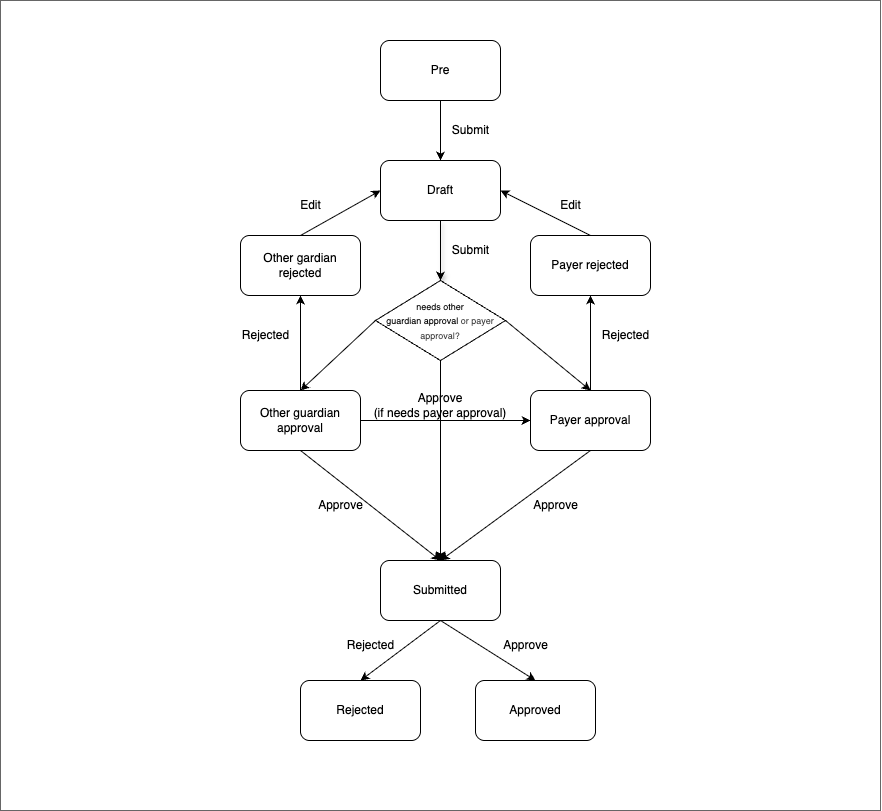
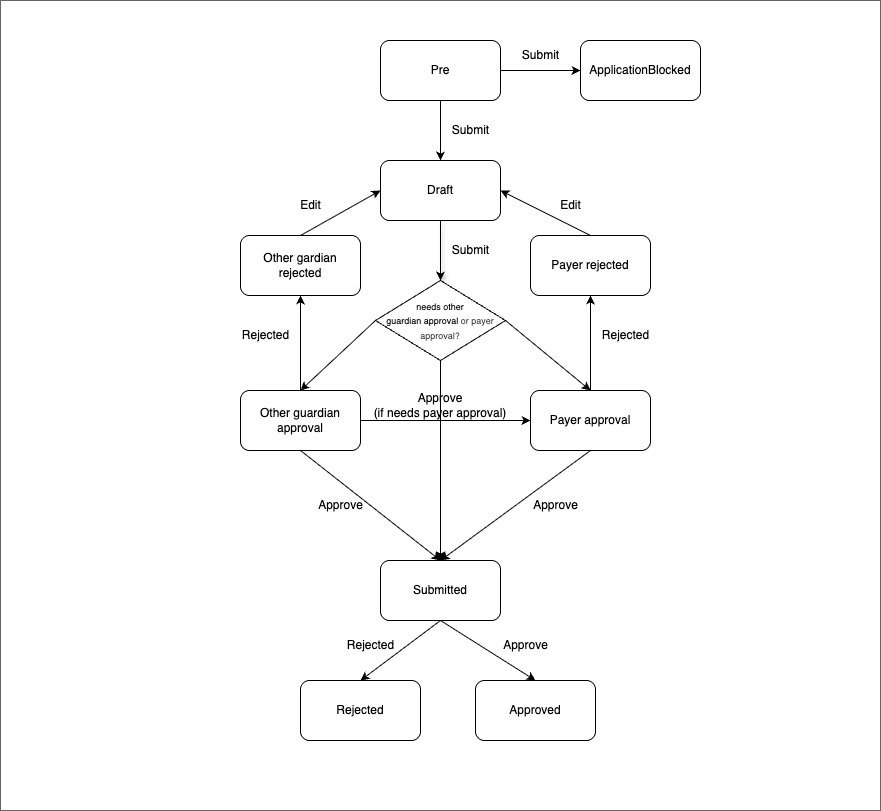
feat(new-primary-school): Add new APPLICATION_BLOCKED state (#21794)
* [TS-1173] Add new APPLICATION_BLOCKED state

* Fix after coderabbit review

diff --git a/libs/application/templates/new-primary-school/src/lib/NewPrimarySchoolTemplate.ts b/libs/application/templates/new-primary-school/src/lib/NewPrimarySchoolTemplate.ts
@@ -48,6 +48,7 @@ import {
 import {
   determineNameFromApplicationAnswers,
   getApplicationAnswers,
+  getApplicationExternalData,
   getApplicationType,
   getOtherGuardian,
   otherGuardianApprovalStatePendingAction,
@@ -108,6 +109,11 @@ const NewPrimarySchoolTemplate: ApplicationTemplate<
               externalDataId: 'preferredSchool',
               throwOnError: true,
             }),
+            defineTemplateApi({
+              action: ApiModuleActions.getIsApplicationBlocked,
+              externalDataId: 'isApplicationBlocked',
+              throwOnError: true,
+            }),
           ],
           roles: [
             {
@@ -136,10 +142,38 @@ const NewPrimarySchoolTemplate: ApplicationTemplate<
           ],
         },
         on: {
-          [DefaultEvents.SUBMIT]: {
-            target: States.DRAFT,
-            actions: 'setApplicationType',
-          },
+          [DefaultEvents.SUBMIT]: [
+            {
+              target: States.DRAFT,
+              actions: 'setApplicationType',
+              cond: (application) => {
+                const { isApplicationBlocked } = getApplicationExternalData(
+                  application?.application?.externalData,
+                )
+                return !isApplicationBlocked
+              },
+            },
+            {
+              target: States.APPLICATION_BLOCKED,
+            },
+          ],
+        },
+      },
+      [States.APPLICATION_BLOCKED]: {
+        meta: {
+          name: States.APPLICATION_BLOCKED,
+          status: FormModes.DRAFT,
+          lifecycle: EphemeralStateLifeCycle,
+          roles: [
+            {
+              id: Roles.APPLICANT,
+              formLoader: () =>
+                import('../forms/ApplicationBlocked').then((module) =>
+                  Promise.resolve(module.ApplicationBlocked),
+                ),
+              read: 'all',
+            },
+          ],
         },
       },
       [States.DRAFT]: {

diff --git a/libs/application/templates/new-primary-school/src/lib/NewPrimarySchoolTemplate.spec.ts b/libs/application/templates/new-primary-school/src/lib/NewPrimarySchoolTemplate.spec.ts
@@ -39,6 +39,50 @@ const buildApplication = (data: {
 }
 
 describe('New Primary School Template', () => {
+  it('should transition from pre to draft on submit', () => {
+    const helper = new ApplicationTemplateHelper(
+      buildApplication({
+        state: States.PREREQUISITES,
+        externalData: {
+          isApplicationBlocked: {
+            data: { hasActiveApplications: false },
+            date: new Date(),
+            status: 'success',
+          },
+        },
+      }),
+      NewPrimarySchoolTemplate,
+    )
+
+    const [hasChanged, newState] = helper.changeState({
+      type: DefaultEvents.SUBMIT,
+    })
+    expect(hasChanged).toBe(true)
+    expect(newState).toBe(States.DRAFT)
+  })
+
+  it('should transition from pre to applicationBlocked on submit', () => {
+    const helper = new ApplicationTemplateHelper(
+      buildApplication({
+        state: States.PREREQUISITES,
+        externalData: {
+          isApplicationBlocked: {
+            data: { hasActiveApplications: true },
+            date: new Date(),
+            status: 'success',
+          },
+        },
+      }),
+      NewPrimarySchoolTemplate,
+    )
+
+    const [hasChanged, newState] = helper.changeState({
+      type: DefaultEvents.SUBMIT,
+    })
+    expect(hasChanged).toBe(true)
+    expect(newState).toBe(States.APPLICATION_BLOCKED)
+  })
+
   it('should transition from draft to submitted on submit', () => {
     const helper = new ApplicationTemplateHelper(
       buildApplication({

diff --git a/libs/application/templates/new-primary-school/src/lib/messages/applicationBlocked.ts b/libs/application/templates/new-primary-school/src/lib/messages/applicationBlocked.ts
@@ -1,0 +1,16 @@
+import { defineMessages } from 'react-intl'
+
+export const applicationBlockedMessages = defineMessages({
+  title: {
+    id: 'nps.application:applicationBlocked.title',
+    defaultMessage: 'Ekki hægt að halda áfram með umsókn',
+    description: 'Unable to continue with the application',
+  },
+  description: {
+    id: 'nps.application:applicationBlocked.description#markdown',
+    defaultMessage:
+      'Umsókn vegna barnsins er þegar í vinnslu og því ekki hægt að halda áfram að svo stöddu.\n\nEf þú þarft frekari upplýsingar skaltu hafa samband við lögheimilissveitarfélag barnsins.',
+    description:
+      'An application for the child is already in progress, and therefore it is not possible to continue at this time. \n\nIf you need further information, please contact the child’s municipality of legal residence.',
+  },
+})

diff --git a/libs/application/templates/new-primary-school/src/forms/ApplicationBlocked.ts b/libs/application/templates/new-primary-school/src/forms/ApplicationBlocked.ts
@@ -1,0 +1,25 @@
+import {
+  buildDescriptionField,
+  buildForm,
+  buildSection,
+} from '@island.is/application/core'
+import { Form, FormModes } from '@island.is/application/types'
+import { applicationBlockedMessages } from '../lib/messages'
+
+export const ApplicationBlocked: Form = buildForm({
+  id: 'newPrimarySchoolApplicationBlocked',
+  mode: FormModes.NOT_STARTED,
+  children: [
+    buildSection({
+      id: 'applicationBlocked',
+      tabTitle: applicationBlockedMessages.title,
+      children: [
+        buildDescriptionField({
+          id: 'applicationBlocked.description',
+          title: applicationBlockedMessages.title,
+          description: applicationBlockedMessages.description,
+        }),
+      ],
+    }),
+  ],
+})

diff --git a/libs/clients/mms/frigg/src/lib/friggClient.service.ts b/libs/clients/mms/frigg/src/lib/friggClient.service.ts
@@ -1,6 +1,7 @@
 import { Auth, AuthMiddleware, type User } from '@island.is/auth-nest-tools'
 import { Injectable } from '@nestjs/common'
 import {
+  ActiveApplicationsModel,
   FormSubmitSuccessModel,
   FriggApi,
   GetOrganizationsByTypeRequest,
@@ -84,6 +85,15 @@ export class FriggClientService {
   ): Promise<FormSubmitSuccessModel> {
     return this.friggApiWithAuth(user).submitForm({
       registrationApplicationInput: form,
+    })
+  }
+
+  async getIsApplicationBlocked(
+    user: User,
+    childNationalId: string,
+  ): Promise<ActiveApplicationsModel> {
+    return await this.friggApiWithAuth(user).getApplications({
+      nationalId: childNationalId,
     })
   }
 }

diff --git a/libs/application/templates/new-primary-school/src/utils/constants.ts b/libs/application/templates/new-primary-school/src/utils/constants.ts
@@ -21,6 +21,7 @@ export const enum States {
   SUBMITTED = 'submitted',
   REJECTED = 'rejected',
   APPROVED = 'approved',
+  APPLICATION_BLOCKED = 'applicationBlocked',
 }
 
 export type Events =
@@ -37,6 +38,7 @@ export enum ApiModuleActions {
   notifyApplicantOfRejectionFromOtherGuardian = 'notifyApplicantOfRejectionFromOtherGuardian',
   assignPayer = 'assignPayer',
   notifyApplicantOfRejectionFromPayer = 'notifyApplicantOfRejectionFromPayer',
+  getIsApplicationBlocked = 'getIsApplicationBlocked',
 }
 
 export enum Roles {

diff --git a/libs/application/template-api-modules/src/lib/modules/templates/new-primary-school/new-primary-school.service.ts b/libs/application/template-api-modules/src/lib/modules/templates/new-primary-school/new-primary-school.service.ts
@@ -308,4 +308,18 @@ export class NewPrimarySchoolService extends BaseTemplateApiService {
       getSlugFromType(application.typeId) as string
     }/${application.id}` as string
   }
+
+  async getIsApplicationBlocked({
+    auth,
+    application,
+  }: TemplateApiModuleActionProps) {
+    const { childNationalId } = getApplicationAnswers(application.answers)
+
+    if (!childNationalId) return undefined
+
+    return await this.friggClientService.getIsApplicationBlocked(
+      auth,
+      childNationalId,
+    )
+  }
 }

diff --git a/libs/application/templates/new-primary-school/src/utils/newPrimarySchoolUtils.ts b/libs/application/templates/new-primary-school/src/utils/newPrimarySchoolUtils.ts
@@ -592,6 +592,11 @@ export const getApplicationExternalData = (
   const schools =
     getValueViaPath<Organization[]>(externalData, 'schools.data') ?? []
 
+  const isApplicationBlocked = getValueViaPath<boolean>(
+    externalData,
+    'isApplicationBlocked.data.hasActiveApplications',
+  )
+
   return {
     children,
     applicantName,
@@ -611,6 +616,7 @@ export const getApplicationExternalData = (
     socialProfile,
     preferredSchool,
     schools,
+    isApplicationBlocked,
   }
 }
 

diff --git a/libs/application/templates/new-primary-school/src/lib/messages/index.ts b/libs/application/templates/new-primary-school/src/lib/messages/index.ts
@@ -9,3 +9,4 @@ export * from './conclusion'
 export * from './assignee'
 export * from './error'
 export * from './template'
+export * from './applicationBlocked'

diff --git a/libs/application/templates/new-primary-school/README.md b/libs/application/templates/new-primary-school/README.md
@@ -14,6 +14,10 @@ This application template allows applicants to apply for a school transfer, cont
 
 This state is a temporary state in which all new applications are created. It has a short lifespan and is unlisted. In this state, there is an external data step that fetches data from Þjóðskrá and MMS. If the user has child/children to apply for, they select them in this state.
 
+#### Application Blocked
+
+If the selected child already has active applications the application goes to this state, the application cannot advance and the applicant will get a screen detailing why they cannot proceed with an application.
+
 #### Draft
 
 If the applicant has a child to apply for, they advance to the draft state. In this state, they complete the actual application.
